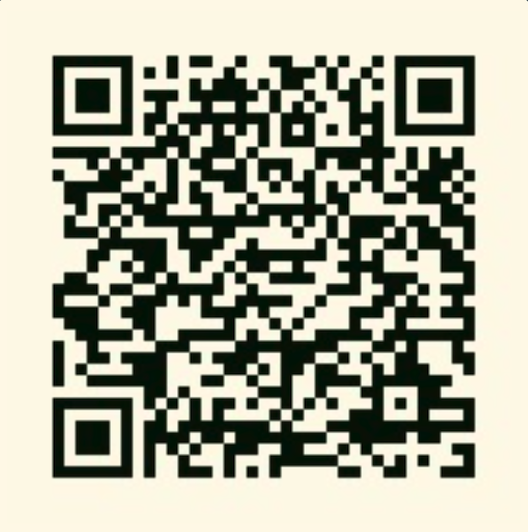
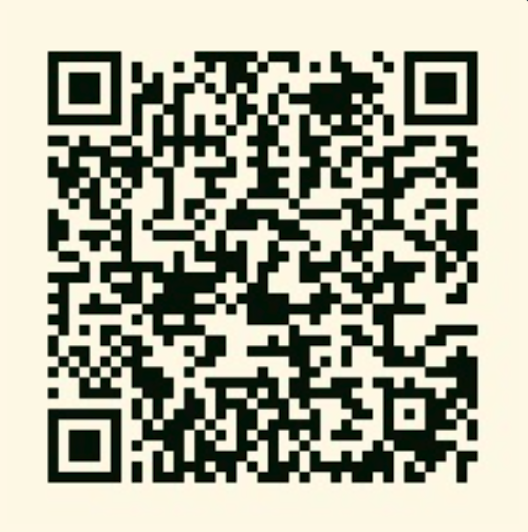
license key and qr codes updated

diff --git a/surface-tracking/AR_Shooter/Build/WebAR-AR-Shooter/index.html b/surface-tracking/AR_Shooter/Build/WebAR-AR-Shooter/index.html
@@ -8,7 +8,7 @@
     <link rel="shortcut icon" href="TemplateData/favicon.ico">
     <link rel="stylesheet" href="TemplateData/style.css">
     
-<script src = "sdk/blippar-webar-sdk-v1.5.0/webar-sdk/webar-sdk-v1.5.0.min.js?license-key=1f342af7-e147-4b1e-bb7c-cab74e211961"
+<script src = "sdk/blippar-webar-sdk-v1.5.0/webar-sdk/webar-sdk-v1.5.0.min.js?license-key=fca11512-0ec7-4773-85e0-a1d4b56ab49e"
 webar-mode="surface-tracking"
 static-camera = "false"
     auto-start="false"

diff --git a/surface-tracking/BlipparAnimation/Build/WebAR-BlipparAnimation/index.html b/surface-tracking/BlipparAnimation/Build/WebAR-BlipparAnimation/index.html
@@ -8,7 +8,7 @@
     <link rel="shortcut icon" href="TemplateData/favicon.ico">
     <link rel="stylesheet" href="TemplateData/style.css">
     
-<script src = "sdk/blippar-webar-sdk-v1.5.0/webar-sdk/webar-sdk-v1.5.0.min.js?license-key=1f342af7-e147-4b1e-bb7c-cab74e211961"
+<script src = "sdk/blippar-webar-sdk-v1.5.0/webar-sdk/webar-sdk-v1.5.0.min.js?license-key=fca11512-0ec7-4773-85e0-a1d4b56ab49e"
 webar-mode="surface-tracking"
 static-camera = "false"
     auto-start="false"

diff --git a/surface-tracking/RemoteCar/Build/WebAR-remotecar/index.html b/surface-tracking/RemoteCar/Build/WebAR-remotecar/index.html
@@ -8,7 +8,7 @@
     <link rel="shortcut icon" href="TemplateData/favicon.ico">
     <link rel="stylesheet" href="TemplateData/style.css">
     
-<script src = "sdk/blippar-webar-sdk-v1.5.0/webar-sdk/webar-sdk-v1.5.0.min.js?license-key=1f342af7-e147-4b1e-bb7c-cab74e211961"
+<script src = "sdk/blippar-webar-sdk-v1.5.0/webar-sdk/webar-sdk-v1.5.0.min.js?license-key=fca11512-0ec7-4773-85e0-a1d4b56ab49e"
 webar-mode="surface-tracking"
 static-camera = "false"
     auto-start="false"

diff --git a/surface-tracking/SolarSystem/Build/WebAR-SolarSyatem/index.html b/surface-tracking/SolarSystem/Build/WebAR-SolarSyatem/index.html
@@ -8,7 +8,7 @@
     <link rel="shortcut icon" href="TemplateData/favicon.ico">
     <link rel="stylesheet" href="TemplateData/style.css">
     
-<script src = "sdk/blippar-webar-sdk-v1.5.0/webar-sdk/webar-sdk-v1.5.0.min.js?license-key=1f342af7-e147-4b1e-bb7c-cab74e211961"
+<script src = "sdk/blippar-webar-sdk-v1.5.0/webar-sdk/webar-sdk-v1.5.0.min.js?license-key=fca11512-0ec7-4773-85e0-a1d4b56ab49e"
 webar-mode="surface-tracking"
 static-camera = "false"
     auto-start="false"

diff --git a/marker-tracking/BlipparMarker/Build/WebAR-BlipparMarker/index.html b/marker-tracking/BlipparMarker/Build/WebAR-BlipparMarker/index.html
@@ -8,7 +8,7 @@
     <link rel="shortcut icon" href="TemplateData/favicon.ico">
     <link rel="stylesheet" href="TemplateData/style.css">
     
-<script src = "sdk/blippar-webar-sdk-v1.5.0/webar-sdk/webar-sdk-v1.5.0.min.js?license-key=1f342af7-e147-4b1e-bb7c-cab74e211961"
+<script src = "sdk/blippar-webar-sdk-v1.5.0/webar-sdk/webar-sdk-v1.5.0.min.js?license-key=fca11512-0ec7-4773-85e0-a1d4b56ab49e"
 webar-mode="marker-tracking"
 static-camera = "false"
     auto-start="false"
